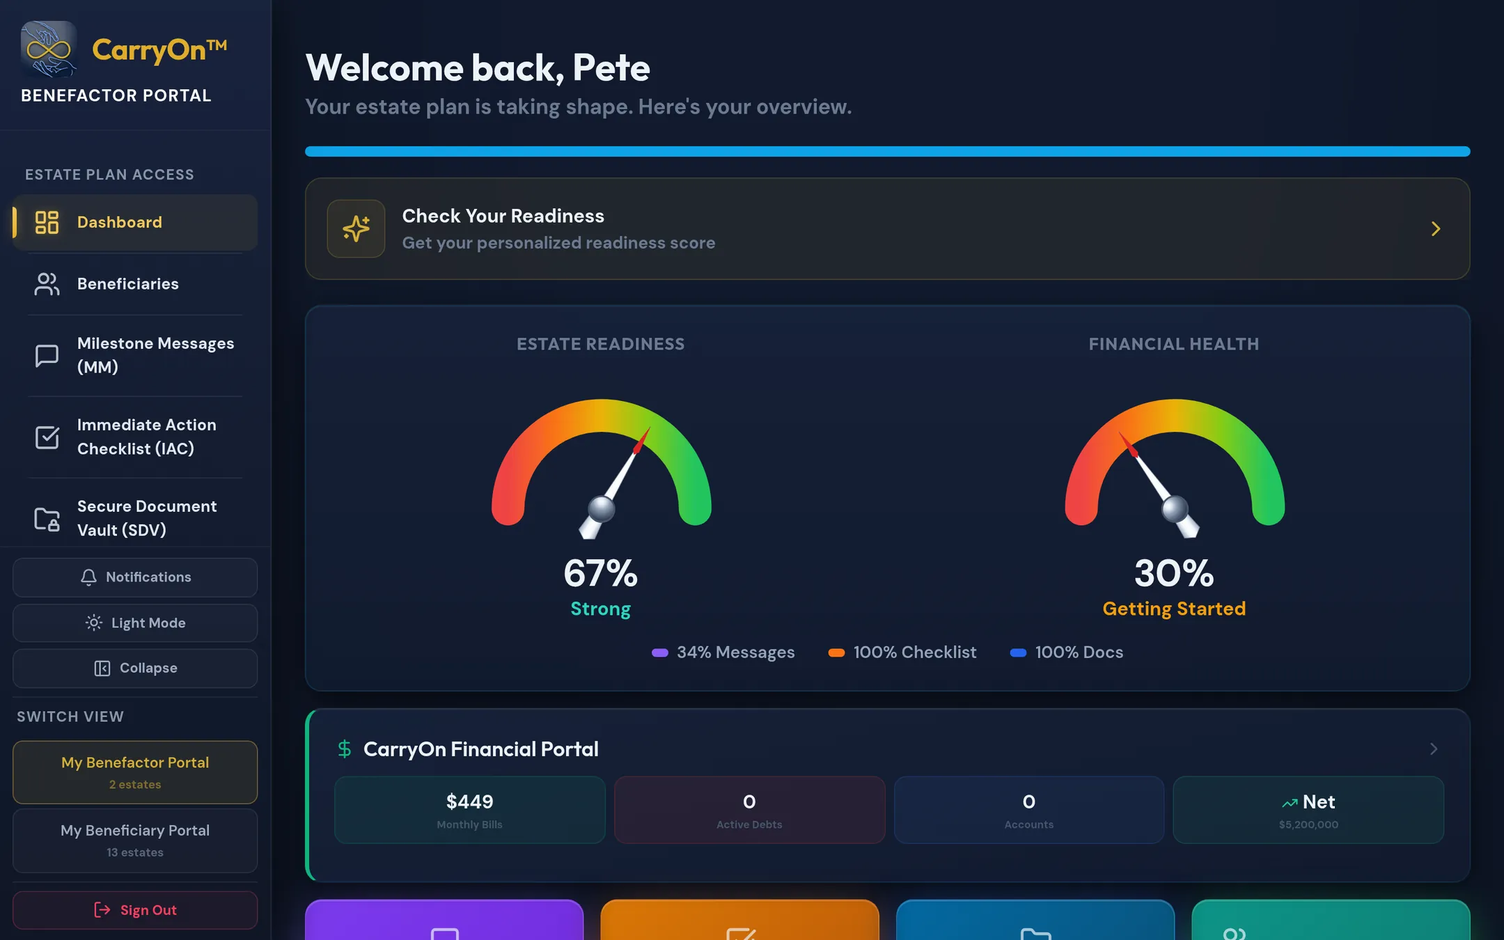
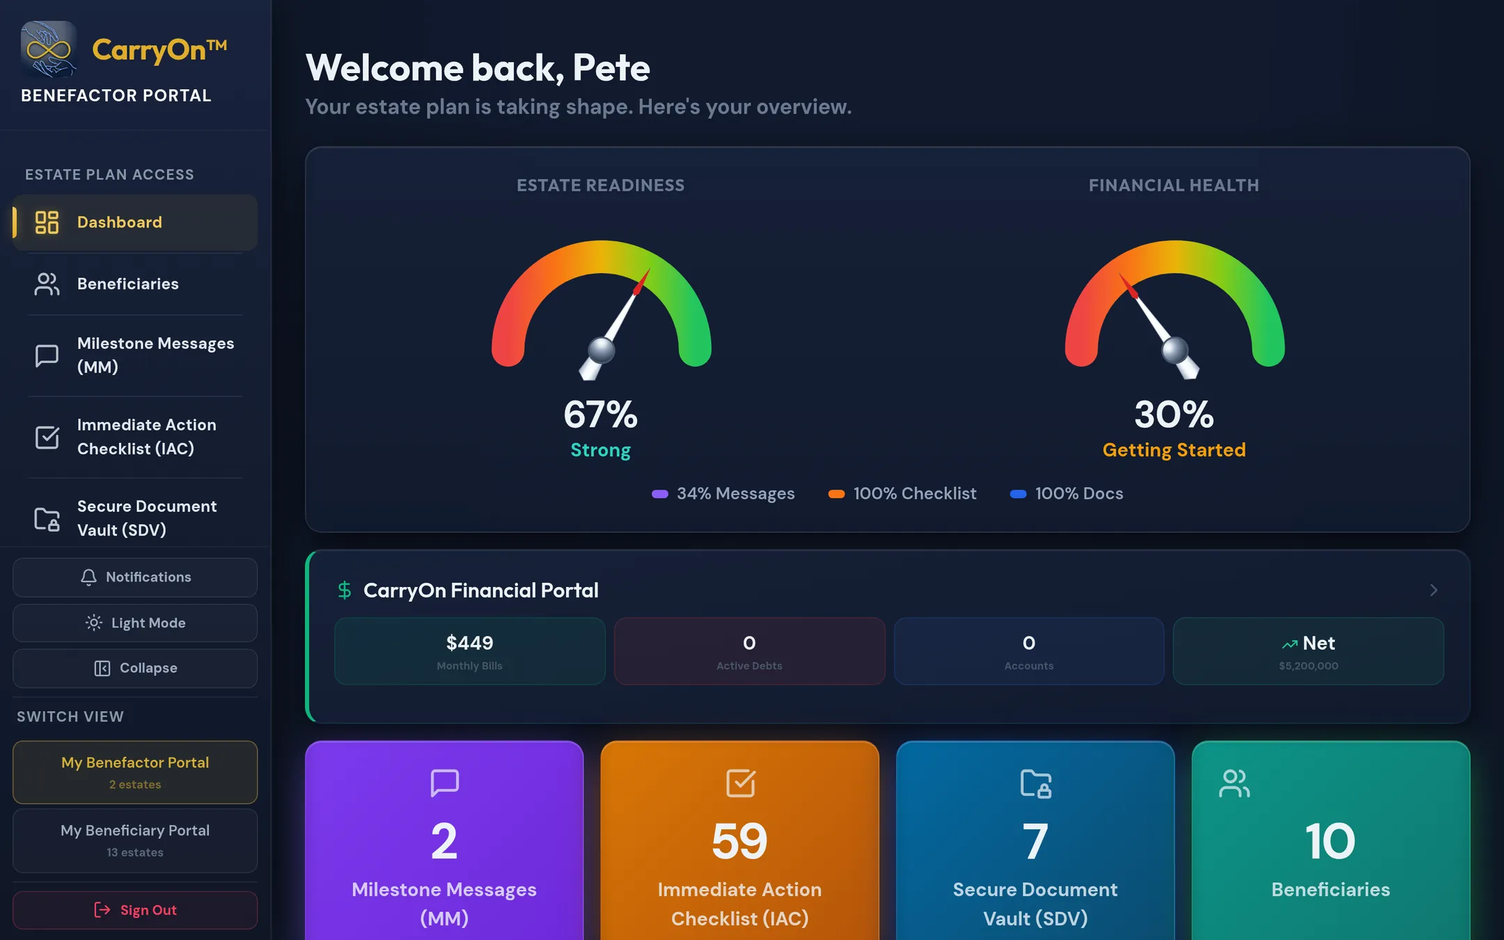
checkpoint before testing_agent_full_stack
Emergent-Commit-Key: 85535491296aba335107cdfecce48b7f9cdbe08bed2c06ed342cdb8bb6fe6bf2

Changed region(s): [[0.1861, 0.1556, 0.9926, 1.0], [0.5583, 0.4978, 0.6514, 0.5289], [0.8065, 0.9956, 0.8375, 1.0]]

diff --git a/frontend/src/components/landing/ReadinessQuiz.js b/frontend/src/components/landing/ReadinessQuiz.js
@@ -1,0 +1,158 @@
+import React, { useState } from 'react';
+import { ChevronRight, ChevronLeft, RotateCcw, Timer, Wrench } from 'lucide-react';
+import { RevealSection } from './RevealSection';
+
+const QUESTIONS = [
+  { q: 'If something happened to you tonight, would your spouse or a trusted person know where your will is \u2014 or that you don\u2019t have one?',
+    fix: 'Put your will (or a note that you still need one) in the Document Vault and share it with one person.' },
+  { q: 'Could your family find your life insurance policy and the claims phone number within an hour?',
+    fix: 'Upload the policy. Estate Guardian\u2122 pulls the claims number straight into your family\u2019s first-steps list.' },
+  { q: 'Does anyone besides you know how to get into your phone, email, and main bank account?',
+    fix: 'Save those logins in Passwords & Accounts and assign each one to a specific person.' },
+  { q: 'Have you written down who to call first \u2014 attorney, insurance agent, employer, closest family?',
+    fix: 'Build your Who-to-Call list, with a ranked backup for each person.' },
+  { q: 'Is there a step-by-step list your family could follow in the first 72 hours?',
+    fix: 'Start your What-to-Do-First checklist. CarryOn drafts it from your documents; you finish it in your words.' },
+  { q: 'Are your important papers in one place \u2014 not spread across drawers, email, and a safe deposit box?',
+    fix: 'Move everything into one encrypted vault your family can actually reach.' },
+  { q: 'Have you recorded anything for the people you love \u2014 a note, a voice memo, a video \u2014 for moments you might miss?',
+    fix: 'Record one Milestone Message. It takes about two minutes.' },
+  { q: 'If you were unreachable for two weeks, could someone step in and keep the mortgage and bills paid?',
+    fix: 'Set up Emergency Access and list your recurring bills in the Financial Portal.' },
+];
+
+const OPTIONS = [
+  { label: 'Yes', value: 2 },
+  { label: 'Partly / not sure', value: 1 },
+  { label: 'No', value: 0 },
+];
+
+const tierFor = (score) => {
+  if (score >= 75) return { title: 'You\u2019re ahead of most families.', color: '#10b981', msg: 'Nice work. The last mile is making sure it all lives in one place your family can reach \u2014 not just in your head or a drawer.' };
+  if (score >= 40) return { title: 'You\u2019ve started. There are gaps.', color: '#d4af37', msg: 'You\u2019ve done more than most. But the gaps below are exactly the ones families trip over in the first week.' };
+  return { title: 'Your family would be searching.', color: '#f87171', msg: 'That\u2019s where almost everyone starts. The good news: the fixes below take about an hour, total.' };
+};
+
+const ScoreRing = ({ score, color }) => {
+  const r = 52, c = 2 * Math.PI * r;
+  return (
+    <div className="relative w-[150px] h-[150px] mx-auto" data-testid="quiz-score-ring">
+      <svg viewBox="0 0 120 120" className="w-full h-full -rotate-90">
+        <circle cx="60" cy="60" r={r} fill="none" stroke="rgba(255,255,255,0.08)" strokeWidth="10" />
+        <circle cx="60" cy="60" r={r} fill="none" stroke={color} strokeWidth="10" strokeLinecap="round" strokeDasharray={c} strokeDashoffset={c * (1 - score / 100)} style={{ transition: 'stroke-dashoffset 1.2s cubic-bezier(0.16,1,0.3,1)' }} />
+      </svg>
+      <div className="absolute inset-0 flex flex-col items-center justify-center">
+        <span className="text-white text-4xl font-bold" style={{ fontFamily: 'Outfit, sans-serif' }} data-testid="quiz-score-value">{score}</span>
+        <span className="text-[#8b97ab] text-xs">out of 100</span>
+      </div>
+    </div>
+  );
+};
+
+const Intro = ({ onStart }) => (
+  <div className="text-center" data-testid="quiz-intro">
+    <p className="text-[#a0aec0] text-base leading-relaxed mb-8 max-w-[520px] mx-auto">
+      Eight quick questions about where things stand today. No email, no sign-up &mdash; just an honest score and the three things to fix first.
+    </p>
+    <button onClick={onStart} className="inline-flex items-center gap-2 px-8 py-3.5 rounded-lg font-bold text-base transition-transform duration-150 active:scale-95" style={{ background: '#d4af37', color: '#0B1221' }} data-testid="quiz-start-btn">
+      Start the quiz <ChevronRight className="w-4 h-4" />
+    </button>
+    <p className="flex items-center justify-center gap-1.5 text-[#6b7a90] text-xs mt-4"><Timer className="w-3.5 h-3.5" /> About 60 seconds</p>
+  </div>
+);
+
+const Question = ({ index, answer, onAnswer, onBack }) => (
+  <div data-testid="quiz-question">
+    <div className="flex items-center justify-between text-xs text-[#8b97ab] mb-2">
+      <span data-testid="quiz-progress-label">Question {index + 1} of {QUESTIONS.length}</span>
+      {index > 0 && <button onClick={onBack} className="flex items-center gap-1 hover:text-white transition-colors" data-testid="quiz-back-btn"><ChevronLeft className="w-3.5 h-3.5" /> Back</button>}
+    </div>
+    <div className="h-1.5 rounded-full mb-7 overflow-hidden" style={{ background: 'rgba(255,255,255,0.08)' }}>
+      <div className="h-full rounded-full transition-[width] duration-500" style={{ width: `${(index / QUESTIONS.length) * 100}%`, background: '#d4af37' }} />
+    </div>
+    <p className="text-white text-lg sm:text-xl font-semibold leading-snug mb-7 min-h-[3.5rem]" style={{ fontFamily: 'Outfit, sans-serif' }} data-testid="quiz-question-text">{QUESTIONS[index].q}</p>
+    <div className="grid gap-3">
+      {OPTIONS.map(opt => (
+        <button key={opt.label} onClick={() => onAnswer(opt.value)} data-testid={`quiz-option-${opt.value}`}
+          className="w-full text-left px-5 py-3.5 rounded-xl text-base font-medium transition-colors duration-200 hover:border-[#d4af37]/60"
+          style={answer === opt.value ? { background: 'rgba(212,175,55,0.16)', border: '1px solid rgba(212,175,55,0.6)', color: '#fcd34d' } : { background: 'rgba(255,255,255,0.03)', border: '1px solid rgba(255,255,255,0.1)', color: '#e2e8f0' }}>
+          {opt.label}
+        </button>
+      ))}
+    </div>
+  </div>
+);
+
+const Result = ({ answers, onRetake, onStart }) => {
+  const score = Math.round((answers.reduce((a, b) => a + b, 0) / (QUESTIONS.length * 2)) * 100);
+  const tier = tierFor(score);
+  const fixes = answers.map((v, i) => ({ v, i })).filter(x => x.v < 2).sort((a, b) => a.v - b.v).slice(0, 3).map(x => QUESTIONS[x.i].fix);
+  return (
+    <div data-testid="quiz-result">
+      <ScoreRing score={score} color={tier.color} />
+      <h3 className="text-white text-2xl sm:text-3xl font-bold text-center mt-5 mb-2" style={{ fontFamily: 'Outfit, sans-serif' }} data-testid="quiz-result-title">{tier.title}</h3>
+      <p className="text-[#a0aec0] text-base text-center leading-relaxed max-w-[560px] mx-auto mb-8">{tier.msg}</p>
+      {fixes.length > 0 && (
+        <div className="rounded-xl p-5 mb-8 text-left" style={{ background: 'rgba(15,26,46,0.7)', border: '1px solid rgba(212,175,55,0.2)' }} data-testid="quiz-fixes">
+          <p className="flex items-center gap-2 text-[#d4af37] text-xs font-bold uppercase tracking-wider mb-3"><Wrench className="w-3.5 h-3.5" /> Fix these first</p>
+          <ol className="space-y-3">
+            {fixes.map((f, i) => (
+              <li key={i} className="flex gap-3 text-[#e2e8f0] text-sm leading-relaxed">
+                <span className="w-6 h-6 rounded-full flex items-center justify-center text-xs font-bold flex-shrink-0" style={{ background: 'rgba(212,175,55,0.14)', color: '#d4af37', border: '1px solid rgba(212,175,55,0.3)' }}>{i + 1}</span>
+                {f}
+              </li>
+            ))}
+          </ol>
+        </div>
+      )}
+      <div className="flex flex-col sm:flex-row items-center justify-center gap-4">
+        <button onClick={() => onStart(score)} className="inline-flex items-center gap-2 px-8 py-3.5 rounded-lg font-bold text-base transition-transform duration-150 active:scale-95" style={{ background: '#d4af37', color: '#0B1221' }} data-testid="quiz-start-carryon-btn">
+          {fixes.length > 0 ? 'Fix these now' : 'Put it all in one place'} <ChevronRight className="w-4 h-4" />
+        </button>
+        <button onClick={onRetake} className="inline-flex items-center gap-1.5 text-[#8b97ab] text-sm hover:text-white transition-colors" data-testid="quiz-retake-btn"><RotateCcw className="w-3.5 h-3.5" /> Retake</button>
+      </div>
+      <p className="text-center text-[#6b7a90] text-xs mt-4">Every plan starts with an exploration period. Cancel anytime.</p>
+    </div>
+  );
+};
+
+export const ReadinessQuiz = ({ navigateWithFade, testIdSuffix = '' }) => {
+  const [stage, setStage] = useState('intro');
+  const [index, setIndex] = useState(0);
+  const [answers, setAnswers] = useState([]);
+
+  const answer = (value) => {
+    const next = [...answers]; next[index] = value; setAnswers(next);
+    setTimeout(() => (index + 1 < QUESTIONS.length ? setIndex(index + 1) : setStage('result')), 220);
+  };
+  const retake = () => { setAnswers([]); setIndex(0); setStage('intro'); };
+  const start = (score) => {
+    sessionStorage.setItem('carryon_quiz_score', String(score));
+    navigateWithFade(`/start?utm_source=readiness_quiz&utm_medium=homepage&utm_content=score_${score}`);
+  };
+
+  return (
+    <section id="quiz" className="relative z-[15] -mt-1" data-testid={`readiness-quiz${testIdSuffix}`}>
+      <div className="rounded-t-[2rem] py-20 lg:py-28 relative overflow-hidden" style={{ background: '#0D1B2A', boxShadow: '0 -16px 50px rgba(0,0,0,0.4)' }}>
+        <div className="absolute inset-0" style={{ background: 'radial-gradient(ellipse 60% 50% at 50% 0%, rgba(212,175,55,0.07) 0%, transparent 60%)' }} />
+        <div className="max-w-[720px] mx-auto px-6 relative z-10">
+          <RevealSection>
+            <p className="text-[#d4af37] text-xs font-bold uppercase tracking-[0.2em] text-center mb-3">60-second check</p>
+            <h2 className="text-3xl sm:text-4xl lg:text-5xl font-bold text-white text-center mb-8" style={{ fontFamily: 'Outfit, sans-serif' }}>
+              How ready is your family?
+            </h2>
+          </RevealSection>
+          <RevealSection delay={0.1} distance={30}>
+            <div className="rounded-2xl p-6 sm:p-8 lg:p-10" style={{ background: 'linear-gradient(160deg, #1a2d4d 0%, #16284a 50%, #142240 100%)', border: '1px solid rgba(212,175,55,0.25)', boxShadow: '0 20px 60px rgba(0,0,0,0.4)' }}>
+              {stage === 'intro' && <Intro onStart={() => setStage('quiz')} />}
+              {stage === 'quiz' && <Question index={index} answer={answers[index]} onAnswer={answer} onBack={() => setIndex(index - 1)} />}
+              {stage === 'result' && <Result answers={answers} onRetake={retake} onStart={start} />}
+            </div>
+          </RevealSection>
+        </div>
+      </div>
+    </section>
+  );
+};
+
+export default ReadinessQuiz;

diff --git a/frontend/src/components/landing/ProductPreview.js b/frontend/src/components/landing/ProductPreview.js
@@ -19,6 +19,39 @@ const TABS = [
     caption: 'Step-by-step instructions your family follows in the first days \u2014 written in your words, with the phone numbers already in them.' },
 ];
 
+const Shots = ({ active, prefix, suffix }) => TABS.map(t => (
+  <img key={t.id} src={`/screenshots/${prefix}${t.id}.webp`} alt={t.alt}
+    width={prefix ? 780 : 2160} height={prefix ? 1328 : 1350}
+    loading={t.id === 'dashboard' ? 'eager' : 'lazy'}
+    data-testid={t.id === active ? `preview-panel-${t.id}${suffix}` : undefined}
+    className="absolute inset-0 w-full h-full object-cover object-top transition-opacity duration-300"
+    style={{ opacity: t.id === active ? 1 : 0, pointerEvents: t.id === active ? 'auto' : 'none' }} />
+));
+
+const DesktopFrame = ({ active, url, testIdSuffix }) => (
+  <div className="hidden md:block rounded-2xl overflow-hidden" style={{ ...card, boxShadow: '0 30px 80px rgba(0,0,0,0.5), 0 0 60px rgba(212,175,55,0.06)' }} data-testid={`preview-desktop-frame${testIdSuffix}`}>
+    <div className="flex items-center gap-3 px-4 py-2.5" style={{ background: 'rgba(8,14,26,0.9)', borderBottom: '1px solid rgba(255,255,255,0.06)' }}>
+      <div className="flex gap-1.5">{['#ff5f57', '#febc2e', '#28c840'].map(c => <span key={c} className="w-2.5 h-2.5 rounded-full" style={{ background: c }} />)}</div>
+      <div className="flex-1 flex items-center gap-2 rounded-md px-3 py-1 text-xs text-[#8b97ab]" style={{ background: 'rgba(255,255,255,0.04)' }} data-testid={`preview-url${testIdSuffix}`}>
+        <Lock className="w-3 h-3 text-[#10b981]" /> {url}
+      </div>
+    </div>
+    <div className="relative w-full" style={{ aspectRatio: '16 / 10', background: '#0b1322' }}>
+      <Shots active={active} prefix="" suffix="" />
+    </div>
+  </div>
+);
+
+const PhoneFrame = ({ active, testIdSuffix }) => (
+  <div className="md:hidden mx-auto" style={{ maxWidth: '300px' }} data-testid={`preview-phone-frame${testIdSuffix}`}>
+    <div className="relative rounded-[2.6rem] p-2.5" style={{ background: 'linear-gradient(160deg, #1c2a44, #0b1322)', border: '1px solid rgba(255,255,255,0.14)', boxShadow: '0 30px 80px rgba(0,0,0,0.6), 0 0 50px rgba(212,175,55,0.08), inset 0 1px 0 rgba(255,255,255,0.08)' }}>
+      <div className="relative rounded-[2.1rem] overflow-hidden" style={{ aspectRatio: '390 / 664', background: '#0b1322' }}>
+        <Shots active={active} prefix="m-" suffix="-mobile" />
+      </div>
+    </div>
+  </div>
+);
+
 export const ProductPreview = ({ testIdSuffix = '' }) => {
   const [active, setActive] = useState('dashboard');
   const tab = TABS.find(t => t.id === active);
@@ -37,7 +70,7 @@ export const ProductPreview = ({ testIdSuffix = '' }) => {
             </p>
           </RevealSection>
           <RevealSection delay={0.15} distance={40}>
-            <div className="flex flex-wrap justify-center gap-2 mb-5" role="tablist">
+            <div className="flex flex-wrap justify-center gap-2 mb-6" role="tablist">
               {TABS.map(({ id, label, icon: Icon }) => (
                 <button key={id} role="tab" aria-selected={active === id} onClick={() => setActive(id)} data-testid={`preview-tab-${id}${testIdSuffix}`}
                   className="flex items-center gap-2 px-4 py-2.5 rounded-full text-sm font-semibold whitespace-nowrap transition-colors duration-200"
@@ -46,28 +79,13 @@ export const ProductPreview = ({ testIdSuffix = '' }) => {
                 </button>
               ))}
             </div>
-            <div className="rounded-2xl overflow-hidden" style={{ ...card, boxShadow: '0 30px 80px rgba(0,0,0,0.5), 0 0 60px rgba(212,175,55,0.06)' }}>
-              <div className="flex items-center gap-3 px-4 py-2.5" style={{ background: 'rgba(8,14,26,0.9)', borderBottom: '1px solid rgba(255,255,255,0.06)' }}>
-                <div className="flex gap-1.5">{['#ff5f57', '#febc2e', '#28c840'].map(c => <span key={c} className="w-2.5 h-2.5 rounded-full" style={{ background: c }} />)}</div>
-                <div className="flex-1 flex items-center gap-2 rounded-md px-3 py-1 text-xs text-[#8b97ab]" style={{ background: 'rgba(255,255,255,0.04)' }} data-testid={`preview-url${testIdSuffix}`}>
-                  <Lock className="w-3 h-3 text-[#10b981]" /> {tab.url}
-                </div>
-              </div>
-              <div className="relative w-full" style={{ aspectRatio: '16 / 10', background: '#0b1322' }}>
-                {TABS.map(t => (
-                  <img key={t.id} src={`/screenshots/${t.id}.webp`} alt={t.alt} width="2160" height="1350"
-                    loading={t.id === 'dashboard' ? 'eager' : 'lazy'}
-                    data-testid={t.id === active ? `preview-panel-${t.id}` : undefined}
-                    className="absolute inset-0 w-full h-full object-cover object-top transition-opacity duration-300"
-                    style={{ opacity: t.id === active ? 1 : 0, pointerEvents: t.id === active ? 'auto' : 'none' }} />
-                ))}
-              </div>
-            </div>
+            <DesktopFrame active={active} url={tab.url} testIdSuffix={testIdSuffix} />
+            <PhoneFrame active={active} testIdSuffix={testIdSuffix} />
             <p className="text-center text-[#a0aec0] text-sm lg:text-base mt-6 max-w-[680px] mx-auto leading-relaxed" data-testid={`preview-caption${testIdSuffix}`}>{tab.caption}</p>
           </RevealSection>
           <RevealSection delay={0.3}>
-            <p className="flex items-center justify-center gap-2 mt-6 text-xs text-[#6b7a90]">
-              <Camera className="w-3.5 h-3.5 text-[#d4af37]" /> Actual screenshots of CarryOn, taken from a live demonstration account. Nothing mocked up.
+            <p className="flex items-center justify-center gap-2 mt-6 text-xs text-[#6b7a90] text-center px-4">
+              <Camera className="w-3.5 h-3.5 text-[#d4af37] flex-shrink-0" /> Actual screenshots of CarryOn, taken from a live demonstration account. Nothing mocked up.
             </p>
           </RevealSection>
         </div>

diff --git a/frontend/src/components/landing/LandingContent.js b/frontend/src/components/landing/LandingContent.js
@@ -2,6 +2,7 @@ import React, { useState } from 'react';
 import { Shield, Users, ChevronRight, ChevronDown, Lock as LockIcon, Sparkles, FileCheck, UserCheck, Trash2, ClipboardCheck, MessageSquare, Key, Layers, Smartphone, MapPin, ShieldAlert, ArrowUpDown, SlidersHorizontal, Radio, MessageCircle, HelpCircle, Heart, HandHeart, EyeOff, Download, Clock, Medal } from 'lucide-react';
 import { RevealSection } from './RevealSection';
 import { ProductPreview } from './ProductPreview';
+import { ReadinessQuiz } from './ReadinessQuiz';
 
 /* ── data: the eight tools (plain-language title, product name as sub-label) ── */
 const PILLARS = [
@@ -147,6 +148,9 @@ const LandingContent = ({ navigateWithFade, footerInfo, testIdSuffix = '', befor
         </RevealSection>
       </div>
     </section>
+
+    {/* ═══════════════════ READINESS QUIZ ═══════════════════ */}
+    <ReadinessQuiz navigateWithFade={navigateWithFade} testIdSuffix={testIdSuffix} />
 
     {/* ═══════════════════ WHY FAMILIES DO THIS (D1.3) ═══════════════════ */}
     <section className="relative z-20 -mt-1">

diff --git a/frontend/src/pages/ChecklistPage.js b/frontend/src/pages/ChecklistPage.js
@@ -362,7 +362,7 @@ const ChecklistPage = () => {
         }}
         data-testid={`iac-item-${item.id}`}
       >
-        <div className="flex items-start gap-3">
+        <div className="flex items-start gap-3 flex-wrap sm:flex-nowrap">
           <div className="w-9 h-9 rounded-lg flex items-center justify-center flex-shrink-0 mt-0.5"
             style={{ background: catInfo.color + '15' }}>
             {item.ai_suggested ? (
@@ -396,7 +396,7 @@ const ChecklistPage = () => {
             )}
           </div>
 
-          <div className="flex items-center gap-1.5 flex-shrink-0">
+          <div className="flex items-center gap-1.5 flex-shrink-0 w-full sm:w-auto justify-end pl-12 sm:pl-0 mt-2 sm:mt-0">
             <span className="text-xs px-2 py-0.5 rounded font-bold capitalize" style={{
               background: priColor + '15', color: priColor, border: `1px solid ${priColor}33`
             }}>

diff --git a/frontend/src/pages/LoginPage.js b/frontend/src/pages/LoginPage.js
@@ -776,6 +776,7 @@ const LoginPage = () => {
           <div className="hidden md:flex items-center gap-8">
             {[
               { label: 'Features', href: '#features' },
+              { label: 'Readiness Quiz', href: '#quiz' },
               { label: 'Security', href: '#security' },
               { label: 'How It Works', href: '#steps' },
               { label: 'Pricing', href: '/pricing' },

diff --git a/frontend/src/pages/HomePage.js b/frontend/src/pages/HomePage.js
@@ -144,6 +144,7 @@ const HomePage = () => {
           <div className="hidden md:flex items-center gap-8">
             {[
               { label: 'Features', href: '#features' },
+              { label: 'Readiness Quiz', href: '#quiz' },
               { label: 'Security', href: '#security' },
               { label: 'How It Works', href: '#steps' },
               { label: 'Pricing', href: '/pricing' },

diff --git a/scripts/capture_product_screenshots.py b/scripts/capture_product_screenshots.py
@@ -1,5 +1,5 @@
 """Capture real product screenshots from a live CarryOn account for the marketing preview.
-Run: SHOT_USER=... SHOT_PASS=... /opt/plugins-venv/bin/python /app/scripts/capture_product_screenshots.py
+Run: SHOT_USER=... SHOT_PASS=... [SHOT_MODE=mobile] /opt/plugins-venv/bin/python /app/scripts/capture_product_screenshots.py
 """
 import os
 import sys
@@ -9,30 +9,36 @@ from playwright.sync_api import sync_playwright
 BASE = os.environ.get("SHOT_BASE_URL", "https://www.carryon.us")
 USER = os.environ["SHOT_USER"]
 PASS = os.environ["SHOT_PASS"]
+MOBILE = os.environ.get("SHOT_MODE") == "mobile"
 OUT = "/app/frontend/public/screenshots"
-# (name, path, texts-to-hide [(text, minWidth)], text-to-click)
-PAGES = [
-    ("dashboard", "/dashboard", [("Enable Notifications", 380), ("Welcome to Your Estate", 1100), ("Get Started with CarryOn", 1100)], None),
-    ("vault", "/vault", [("Section Unlocked", 700)], None),
-    ("contacts", "/beneficiaries", [("Section Unlocked", 700)], None),
-    ("checklist", "/checklist", [("Section Unlocked", 700)], "Critical"),
-]
-
-HIDE_JS = """([text, minWidth]) => {
-  const walker = document.createTreeWalker(document.body, NodeFilter.SHOW_TEXT);
-  let n; const hits = [];
-  while ((n = walker.nextNode())) { if (n.textContent.trim() === text) hits.push(n.parentElement); }
-  for (let el of hits) {
-    while (el && el.parentElement && el.getBoundingClientRect().width < minWidth) el = el.parentElement;
-    if (el && el !== document.body) el.style.display = 'none';
-  }
-  return hits.length;
+PREFIX = "m-" if MOBILE else ""
+# Account-specific nudges hidden before shooting (onboarding wizard, push prompt, section-lock setup banners)
+HIDE_SELECTORS = '[data-testid="onboarding-wizard"], [data-testid="push-notification-prompt"], [data-testid^="lock-banner-"]'
+# Mirrors the responsive fix shipped in ChecklistPage.renderItemCard (actions wrap under the title on phones)
+CHECKLIST_MOBILE_CSS = """@media (max-width: 639px) {
+  [data-testid^="iac-item-"] > div { flex-wrap: wrap; }
+  [data-testid^="iac-item-"] > div > div:last-child { width: 100%; justify-content: flex-end; padding-left: 3rem; margin-top: 0.5rem; }
 }"""
+PAGES = [
+    ("dashboard", "/dashboard", None),
+    ("vault", "/vault", None),
+    ("contacts", "/beneficiaries", None),
+    ("checklist", "/checklist", "Critical"),
+]
 
 os.makedirs(OUT, exist_ok=True)
 with sync_playwright() as p:
     browser = p.chromium.launch(executable_path="/usr/bin/chromium", args=["--no-sandbox"])
-    ctx = browser.new_context(viewport={"width": 1440, "height": 900}, device_scale_factor=2)
+    if MOBILE:
+        dev = dict(p.devices["iPhone 14"])
+        dev.pop("default_browser_type", None)
+        ctx = browser.new_context(**dev)
+        vw, vh = dev["viewport"]["width"], dev["viewport"]["height"]
+        out_size = (vw * 2, vh * 2)
+    else:
+        vw, vh = 1440, 900
+        ctx = browser.new_context(viewport={"width": vw, "height": vh}, device_scale_factor=2)
+        out_size = (2160, 1350)
     page = ctx.new_page()
     page.goto(f"{BASE}/login", wait_until="networkidle", timeout=60000)
     page.fill('[data-testid="login-email-input"]', USER)
@@ -40,21 +46,21 @@ with sync_playwright() as p:
     page.click('[data-testid="login-submit-button"]')
     page.wait_for_url(lambda u: "/login" not in u, timeout=60000)
     page.wait_for_timeout(2500)
-    print("logged in ->", page.url)
-    for name, path, hides, click_text in PAGES:
+    print("logged in ->", page.url, "viewport", vw, vh)
+    for name, path, click_text in PAGES:
         page.goto(f"{BASE}{path}", wait_until="networkidle", timeout=60000)
         page.wait_for_timeout(3500)
+        page.add_style_tag(content=CHECKLIST_MOBILE_CSS)
         if click_text:
             page.get_by_text(click_text, exact=False).first.click()
             page.wait_for_timeout(800)
-        for text, min_w in hides:
-            print("  hid", text, page.evaluate(HIDE_JS, [text, min_w]))
+        hidden = page.evaluate(f"(() => {{ const els = document.querySelectorAll('{HIDE_SELECTORS}'); els.forEach(e => e.style.display = 'none'); return els.length; }})()")
         page.wait_for_timeout(500)
-        out = f"{OUT}/{name}.png"
+        out = f"{OUT}/{PREFIX}{name}.png"
         page.screenshot(path=out, full_page=False)
-        im = Image.open(out).convert("RGB").resize((2160, 1350), Image.LANCZOS)
-        im.save(f"{OUT}/{name}.webp", "WEBP", quality=80, method=6)
+        im = Image.open(out).convert("RGB").resize(out_size, Image.LANCZOS)
+        im.save(f"{OUT}/{PREFIX}{name}.webp", "WEBP", quality=80, method=6)
         os.remove(out)
-        print("saved", f"{OUT}/{name}.webp", page.url)
+        print("saved", f"{OUT}/{PREFIX}{name}.webp", "hidden:", hidden, page.url)
     browser.close()
 print("done", file=sys.stderr)
